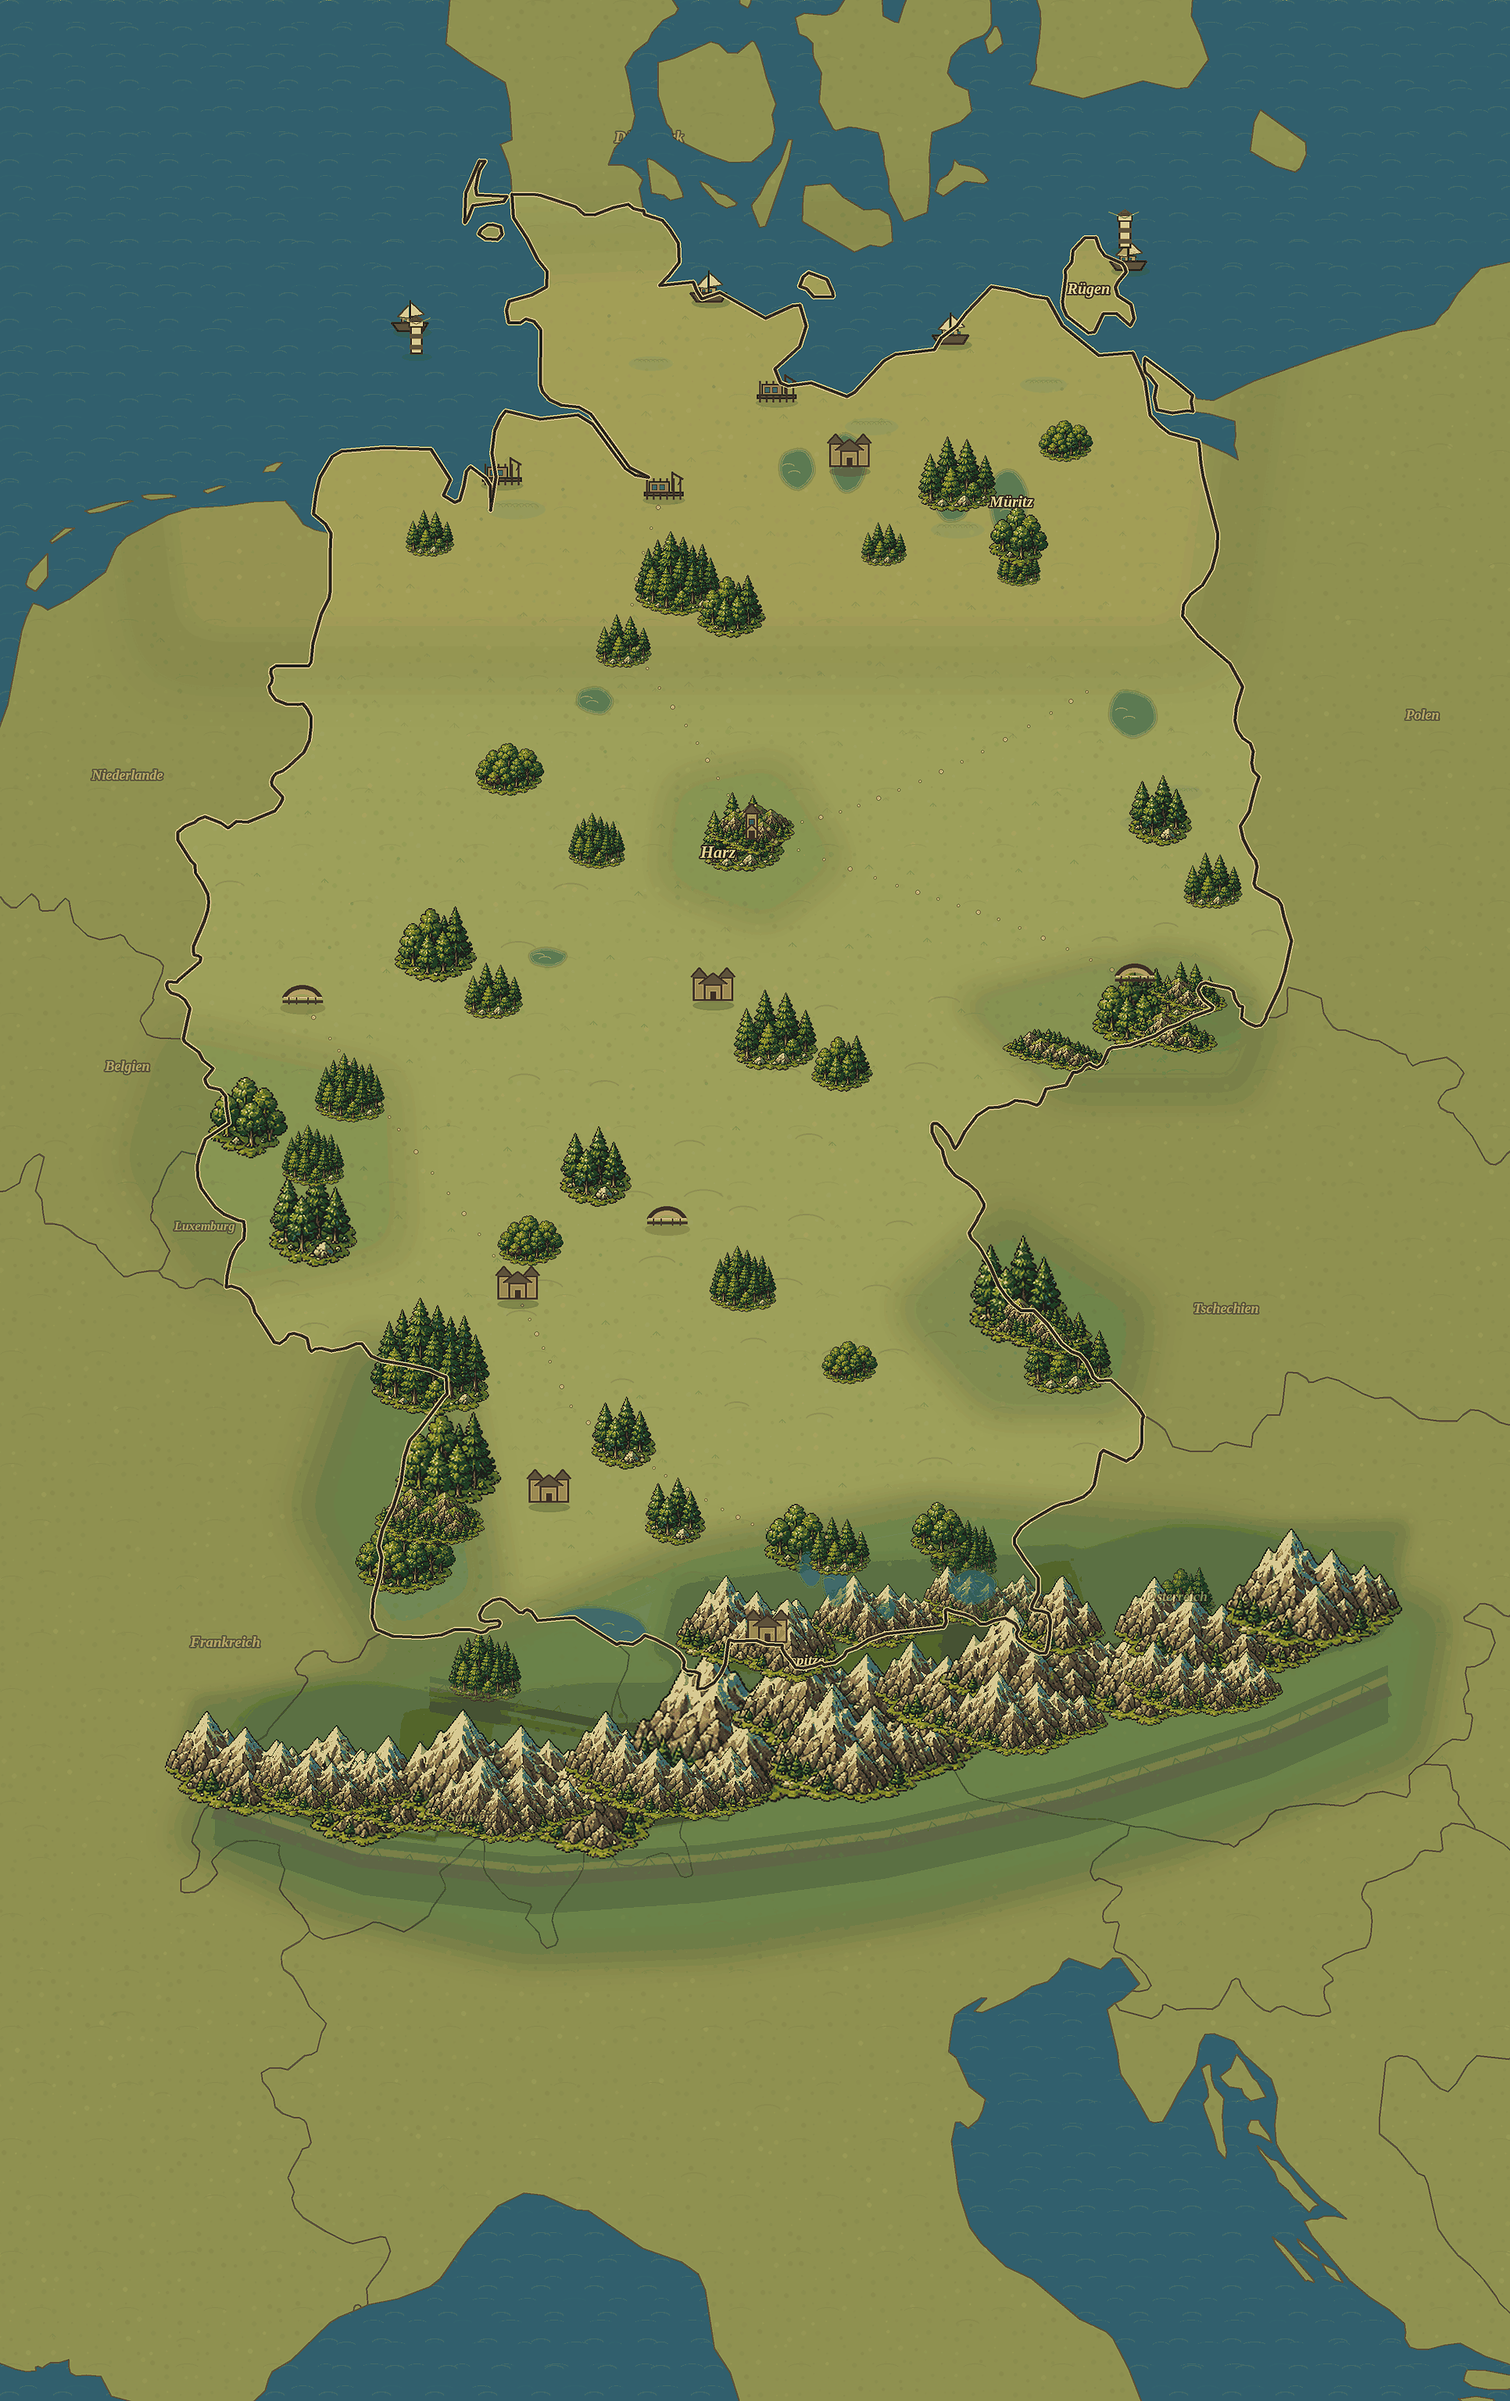
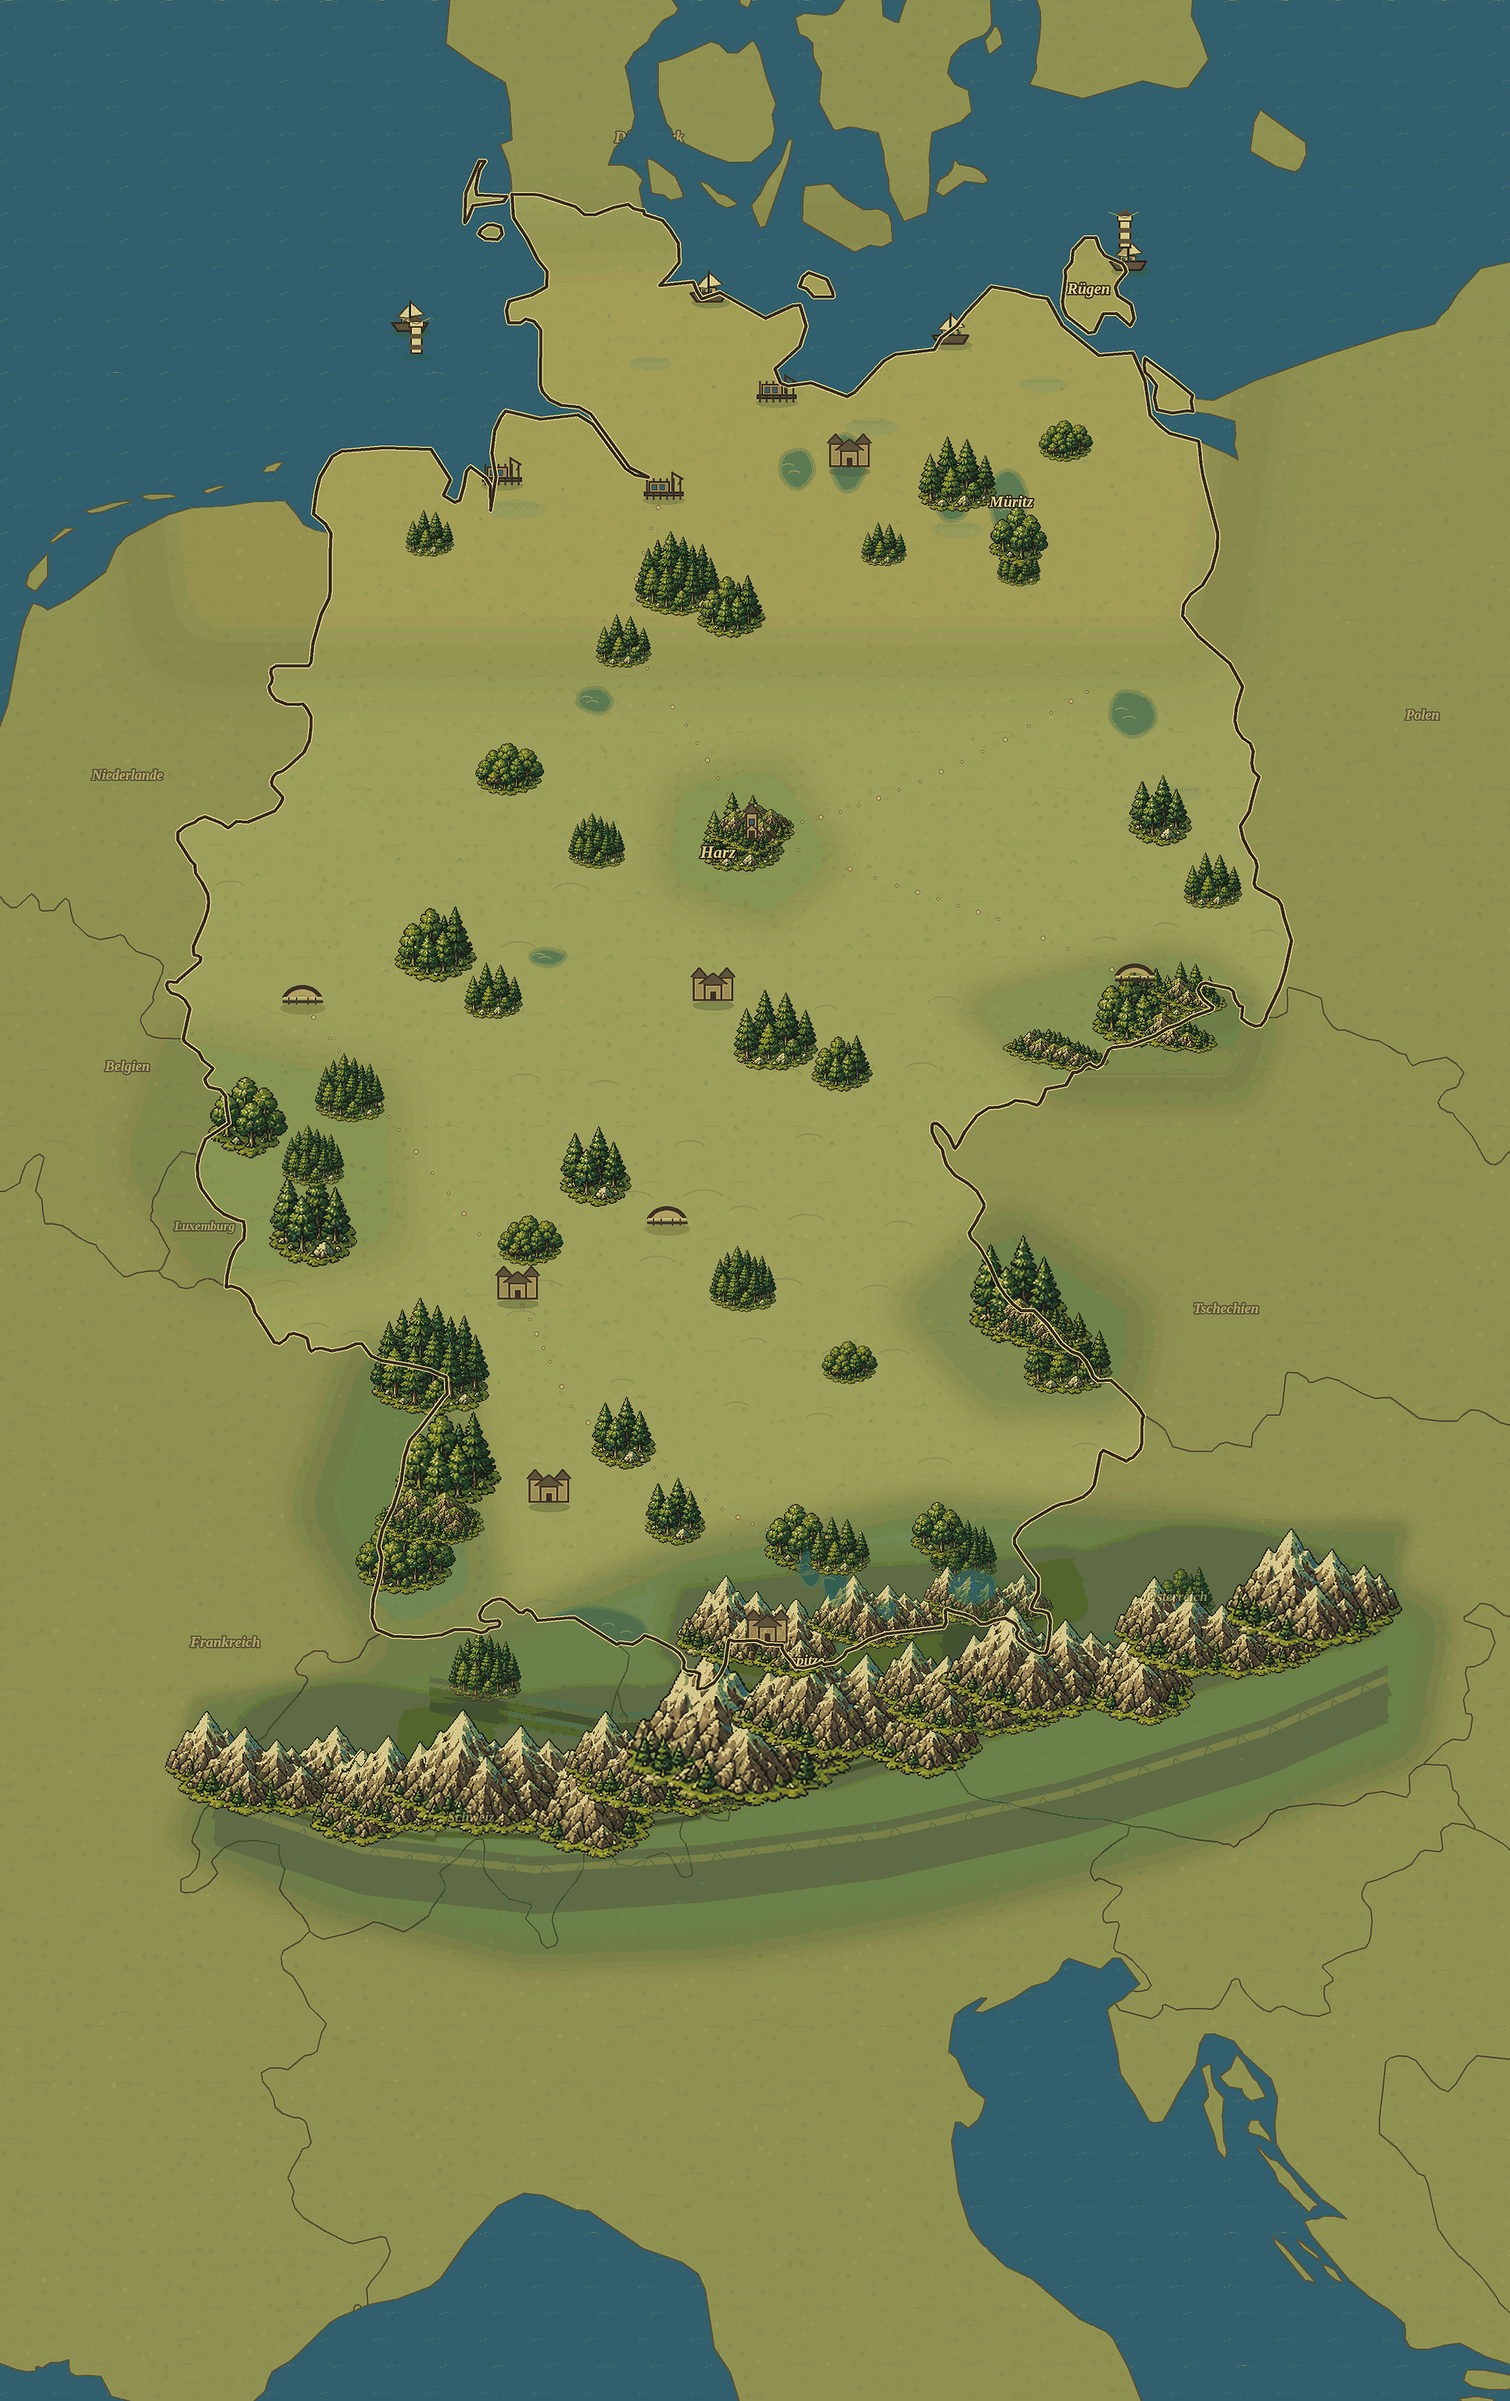
Remove duplicate Alpine relief glyphs

Changed region(s): [[0.1553, 0.6562, 0.8385, 0.7812], [0.3727, 0.6562, 0.4348, 0.6875]]

diff --git a/map_pipeline/compose_map.py b/map_pipeline/compose_map.py
@@ -239,16 +239,7 @@ RELIEF_REGIONS = [
             },
         ],
         "massif_segments": ALPINE_MASSIF_SEGMENTS,
-        "mountain_glyphs": [
-            ("alps_range_3", 7.20, 46.72, 215),
-            ("alps_range_1", 8.65, 46.60, 230),
-            ("alps_range_3", 10.05, 46.72, 245),
-            ("alps_range_2", 11.45, 46.88, 235),
-            ("alps_range_1", 12.85, 47.08, 225),
-            ("alps_range_3", 14.30, 47.28, 215),
-            ("alps_peak_2", 10.95, 47.48, 130),
-            ("alps_peak_1", 13.15, 47.62, 125),
-        ],
+        "mountain_glyphs": [],
         "mountains": [],
     },
     {

diff --git a/tests/test_map_panel_contract.py b/tests/test_map_panel_contract.py
@@ -336,9 +336,7 @@ class MapPanelContractTest(unittest.TestCase):
             '"required_country_overlap": "Germany"',
             '"id": "austrian_alps_massif"',
             '"massif_segments": ALPINE_MASSIF_SEGMENTS',
-            '"mountain_glyphs": [',
-            '("alps_range_3", 10.05, 46.72, 245)',
-            '("alps_range_1", 12.85, 47.08, 225)',
+            '"mountain_glyphs": []',
             '("highland_forest_1", 10.62, 51.78, 118)',
             '("border_highland_1", 13.10, 50.66, 145)',
             '"extends_to": ["France", "Switzerland", "Italy", "Austria", "Slovenia"]',

diff --git a/docs/active-map-backlog.md b/docs/active-map-backlog.md
@@ -59,6 +59,8 @@
 - [x] Добавить non-render audit до screenshots: `audit_geography_layers()` проверяет, что немецкий Alpine-edge massif пересекает Germany geometry, а runtime landmark audit проверяет top/center/bottom samples Ростока по реальному полигону Германии.
 - [x] #69 Добавить metadata для massif source layers: общий `assets/map/massifs/manifest.json` и per-layer JSON sidecars фиксируют image file, crop bbox, geo bounds, arc/shadow/glyph anchors и overlap requirements; `audit_massif_source_manifest()` сверяет manifest с PNG без визуального рендера.
 - [x] #69 Расширить source-layer pipeline за пределы Альп: `black_forest`, `bavarian_forest`, `harz`, `erzgebirge`, `saxon_switzerland`, `eifel_hunsrueck` и полный `alps` region теперь тоже сохраняются как отдельные проверяемые relief source layers; `northern_lowlands` намеренно не экспортируется как mountain layer.
+- [x] #69 Убрать дублирующий generic mountain-glyph ряд из полного `alps` relief layer: Альпы теперь рисуются через ridge bands + named massif source layers, без второй повторной полосы случайных `alps_range_*` поверх того же места.
+- [ ] #69 Follow-up: заменить текущий Alpine art на более узнаваемые отдельные massif glyphs/segments. Текущая правка убирает дубль, но еще не делает Альпы качеством `8/10`.
 - [ ] #67 Follow-up: проверить mobile руками и убрать/укрупнить оставшиеся дома/лесные glyphs, если пользователь всё ещё воспринимает их как мелкий шум.
 - [x] Добавить первый explicit forest mass layer: `ATLAS_FOREST_MASSES` покрывает Lüneburger Heide, Mecklenburg lake forests, Spreewald/Lausitz, Teutoburg/Weser, Sauerland/Rothaar, Eifel, Spessart/Odenwald, Thuringian Forest, Franconian/Swabian uplands и Upper Bavaria foothills.
 - [x] Убрать странные декоративные полоски из текущего рендера: route overlay и слишком прямые procedural waterways больше не вызываются, field hatch/field patch заменены на более спокойные tufts/hill marks.
@@ -85,6 +87,7 @@
 
 ## Current Known State
 
-- Карта на `http://127.0.0.1:9000/` пересобрана из `main`.
-- Последний map commit на момент обновления backlog: pending base texture + small clutter pass.
-- Текущая карта технически рабочая и архитектурно движется в glyph-based direction. Честная оценка после screenshots: около `6.7/10` по плотности и читаемости, но нельзя оценивать ее как `8/10`: water blobs, Rostock placement, German Alps visibility, separate massif sprites and marker composition still need work.
+- Карта на `http://127.0.0.1:9000/` пересобрана из `main`; Web build отдает gzip и `Cache-Control: no-store`.
+- Последний map commit на момент обновления backlog: pending duplicate-Alps cleanup.
+- Non-render checks now cover координаты, geography bounds, source-layer metadata, PNG dimensions/non-blank state, export payload contract and runtime draw contracts. Screenshots/manual review still required for contrast, clutter, visual hierarchy and "does this feel like a real atlas map".
+- Текущая карта технически рабочая и архитектурно движется в glyph-based direction. Честная оценка после screenshots: около `6.8/10`, но нельзя оценивать ее как `8/10`: Alpine art, relief/lake recognizability, remaining detail density and marker composition still need work.

diff --git a/docs/map-orchestrator-progress.md b/docs/map-orchestrator-progress.md
@@ -909,3 +909,29 @@ Checks:
 - Web server restarted on `http://127.0.0.1:9000/`; Playwright screenshots regenerated.
 
 Self-audit: still about `6.8/10`. The pipeline is now much closer to the requested component-based direction, but visual quality is unchanged. The next user-visible improvement should be replacing weak region glyph art/placement, especially making Alps and Harz look less like repeated generic sprites.
+
+## Iteration 2026-05-31 20:05
+
+Implemented:
+
+- Removed the duplicate generic `alps_range_*` mountain-glyph row from the full `alps` relief region.
+- The Alpine layer now renders through ridge bands plus named massif source layers instead of drawing a second repeated strip of generic mountains over the same area.
+- Regenerated `assets/map/germany_styled.png`, `assets/map/massifs/alps.png`, `assets/map/massifs/alps.json` and `assets/map/massifs/manifest.json`.
+- Updated the contract test so the full `alps` region is expected to have `mountain_glyphs: []`.
+
+Checks:
+
+- `uv run python -m map_pipeline.compose_map`: regenerated final map and source layers.
+- `uv run python -m unittest tests.test_map_geography_audit tests.test_map_panel_contract tests.test_export_payload_contract`: 15 tests OK.
+- `python3 -m unittest tests.test_map_panel_contract tests.test_export_payload_contract tests.test_android_export_contract tests.test_map_geography_audit`: 20 tests OK, 2 skipped under plain Python where geo dependencies are unavailable.
+- `curl -I --compressed http://127.0.0.1:9000/index.pck`: `Content-Encoding: gzip`, `Content-Length: 6360156`, `Cache-Control: no-store`.
+- Playwright screenshots regenerated:
+  - `/tmp/cable-world-web-map/mobile-390x844-initial.png`
+  - `/tmp/cable-world-web-map/desktop-1280x800-initial.png`
+
+Non-render verification notes:
+
+- We can audit coordinates, region bounds, layer metadata, PNG sizes/non-blank state, expected draw calls and payload headers without screenshots.
+- We still need screenshots/manual review for final quality signals: contrast, clutter, whether the relief reads naturally, whether marker hierarchy is clear, and whether the map feels close to the reference style.
+
+Self-audit: still about `6.8/10`, not `8/10`. The screenshot is cleaner because Alps are no longer double-drawn, but the Alpine art itself is still too generic and needs a better per-massif visual pass.
